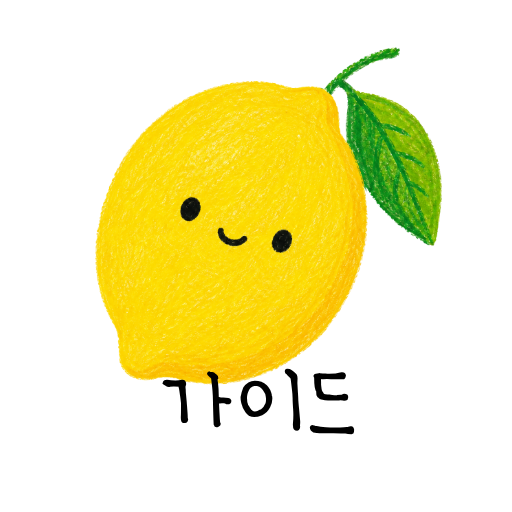
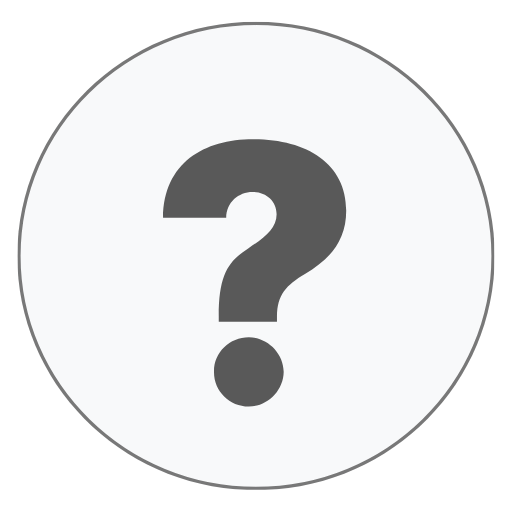
demo_v16-2

diff --git a/page2.html b/page2.html
@@ -913,8 +913,7 @@
                 <div class="guild-title-wrap">
                     <h1 style="margin: 0; font-size: 1.5rem;">🌸길드 꽃 도감🌸</h1>
                     <button type="button" class="guild-guide-btn" onclick="openGuildGuide()" title="길드 꽃 도감 가이드" aria-label="길드 꽃 도감 가이드 열기">
-                        <img src="guide-default.png" alt="가이드" class="guide-default">
-                        <img src="guide-hover.png" alt="" class="guide-hover" aria-hidden="true">
+                        <img src="guide-default.png" alt="가이드">
                     </button>
                 </div>
             </div>
@@ -3428,19 +3427,22 @@
             align-items: center;
             justify-content: center;
             flex: 0 0 auto;
-            transition: transform .15s ease;
+            transition: transform .15s ease, filter .15s ease, opacity .15s ease;
         }
-        .guild-guide-btn:hover { transform: translateY(-1px); }
-        .guild-guide-btn:active { transform: translateY(0) scale(.96); }
+        .guild-guide-btn:hover {
+            transform: translateY(-1px);
+            filter: brightness(.72);
+        }
+        .guild-guide-btn:active {
+            transform: translateY(0) scale(.96);
+            filter: brightness(.55);
+        }
         .guild-guide-btn img {
             width: 100%;
             height: 100%;
             object-fit: contain;
             display: block;
         }
-        .guild-guide-btn .guide-hover { display: none; }
-        .guild-guide-btn:hover .guide-default { display: none; }
-        .guild-guide-btn:hover .guide-hover { display: block; }
 
         .guide-modal-overlay {
             display: none;
@@ -3501,6 +3503,30 @@
             .guild-guide-btn { width: 40px; height: 40px; }
             .guide-modal-box { padding: 18px; max-height: 82vh; }
             .guide-modal-top h2 { font-size: 1.15rem; }
+        }
+
+        /* 이미지 전용 뒤로가기 버튼 */
+        .nav-btn-home {
+            border: none !important;
+            outline: none !important;
+            background: transparent !important;
+            box-shadow: none !important;
+            padding: 0 !important;
+            overflow: visible !important;
+        }
+        .nav-btn-home:hover {
+            border: none !important;
+            background: transparent !important;
+            box-shadow: none !important;
+            filter: brightness(.78);
+        }
+        .nav-btn-home:active { filter: brightness(.6); }
+        .nav-btn-home .back-icon {
+            width: 100%;
+            height: 100%;
+            object-fit: contain;
+            display: block;
+            border: 0;
         }
 </style>
 

diff --git a/page3.html b/page3.html
@@ -4,6 +4,30 @@
     <link rel="icon" type="image/png" href="lemon-favicon.png"><style>
   .nav-btn-home { display:inline-flex; width:50px; height:50px; align-items:center; justify-content:center; text-decoration:none; }
   .back-icon { width:100%; height:100%; object-fit:contain; display:block; }
+
+        /* 이미지 전용 뒤로가기 버튼 */
+        .nav-btn-home {
+            border: none !important;
+            outline: none !important;
+            background: transparent !important;
+            box-shadow: none !important;
+            padding: 0 !important;
+            overflow: visible !important;
+        }
+        .nav-btn-home:hover {
+            border: none !important;
+            background: transparent !important;
+            box-shadow: none !important;
+            filter: brightness(.78);
+        }
+        .nav-btn-home:active { filter: brightness(.6); }
+        .nav-btn-home .back-icon {
+            width: 100%;
+            height: 100%;
+            object-fit: contain;
+            display: block;
+            border: 0;
+        }
 </style></head>
 <body style="padding: 20px;">
   <h1>💖준비중입니다💖</h1>

diff --git a/page4.html b/page4.html
@@ -4,6 +4,30 @@
     <link rel="icon" type="image/png" href="lemon-favicon.png"><style>
   .nav-btn-home { display:inline-flex; width:50px; height:50px; align-items:center; justify-content:center; text-decoration:none; }
   .back-icon { width:100%; height:100%; object-fit:contain; display:block; }
+
+        /* 이미지 전용 뒤로가기 버튼 */
+        .nav-btn-home {
+            border: none !important;
+            outline: none !important;
+            background: transparent !important;
+            box-shadow: none !important;
+            padding: 0 !important;
+            overflow: visible !important;
+        }
+        .nav-btn-home:hover {
+            border: none !important;
+            background: transparent !important;
+            box-shadow: none !important;
+            filter: brightness(.78);
+        }
+        .nav-btn-home:active { filter: brightness(.6); }
+        .nav-btn-home .back-icon {
+            width: 100%;
+            height: 100%;
+            object-fit: contain;
+            display: block;
+            border: 0;
+        }
 </style></head>
 <body style="padding: 20px;">
   <h1>💖준비중입니다💖</h1>

diff --git a/page1.html b/page1.html
@@ -171,6 +171,30 @@
             .guide-title-row { align-items: flex-start; flex-direction: column; }
         }
         .back-icon { width: 100%; height: 100%; object-fit: contain; display: block; }
+
+        /* 이미지 전용 뒤로가기 버튼 */
+        .nav-btn-home {
+            border: none !important;
+            outline: none !important;
+            background: transparent !important;
+            box-shadow: none !important;
+            padding: 0 !important;
+            overflow: visible !important;
+        }
+        .nav-btn-home:hover {
+            border: none !important;
+            background: transparent !important;
+            box-shadow: none !important;
+            filter: brightness(.78);
+        }
+        .nav-btn-home:active { filter: brightness(.6); }
+        .nav-btn-home .back-icon {
+            width: 100%;
+            height: 100%;
+            object-fit: contain;
+            display: block;
+            border: 0;
+        }
 </style>
 </head>
 <body>

diff --git a/page5.html b/page5.html
@@ -90,6 +90,30 @@
       .flower-detail-info { width:100%; }
     }
       .back-icon { width: 100%; height: 100%; object-fit: contain; display: block; }
+
+        /* 이미지 전용 뒤로가기 버튼 */
+        .nav-btn-home {
+            border: none !important;
+            outline: none !important;
+            background: transparent !important;
+            box-shadow: none !important;
+            padding: 0 !important;
+            overflow: visible !important;
+        }
+        .nav-btn-home:hover {
+            border: none !important;
+            background: transparent !important;
+            box-shadow: none !important;
+            filter: brightness(.78);
+        }
+        .nav-btn-home:active { filter: brightness(.6); }
+        .nav-btn-home .back-icon {
+            width: 100%;
+            height: 100%;
+            object-fit: contain;
+            display: block;
+            border: 0;
+        }
 </style>
 </head>
 <body>
